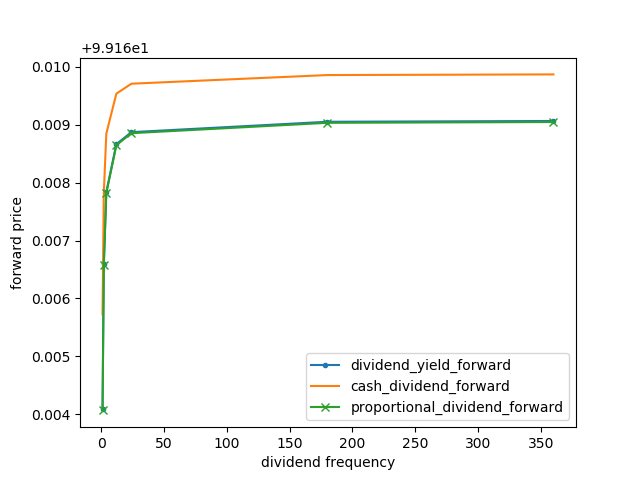
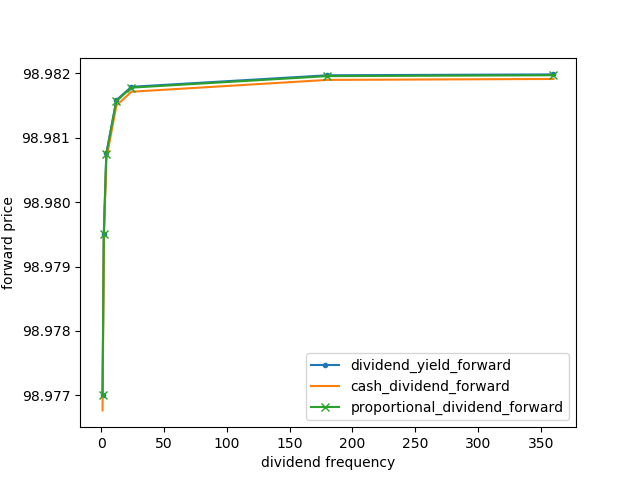
+ vol test

diff --git a/PricingModel.py b/PricingModel.py
@@ -39,7 +39,8 @@ class MonteCarlo(PricingModel):
     def generate_discrete_data(self):
         self.path = np.ones((1, self.n_path)) * self.S0  # row 0: S0
         self.ST = np.ones(self.n_path) * self.S0  # S0
-        self.Wt = np.random.normalmtrand.RandomState(seed=42).randn(self.n_path, self.T - self.t)
+        #self.Wt = np.random.normalmtrand.RandomState(seed=42).randn(self.n_path, self.T - self.t)
+        self.Wt = np.random.normal(0, 1/math.sqrt(1/360), self.n_path*(self.T - self.t))
 
     def generate_ST(self, S0, vol, r, T, t, d, d_model1, d_model2, q, delta, frequency):
         # r is daily interest rate
@@ -71,8 +72,11 @@ class MonteCarlo(PricingModel):
                 dividend_FV = dividend_FV * d_model2 * math.exp(r * (T - t))
 
         for i in range(0, T - t):
-            dS = ST * (np.ones(self.n_path) * (r - q1[i]) + vol * self.Wt[i:i + self.n_path]) - np.ones(self.n_path) * d1[
-                i]  # daily increment
+            # i: time
+            '''dS = ST * (np.ones(self.n_path) * (r - q1[i]) + vol * self.Wt[i:i + self.n_path]) - np.ones(self.n_path) * d1[
+                i]  # daily increment'''
+            dS = ST * (np.ones(self.n_path) * (r - q1[i]) + vol * self.Wt[i*self.n_path:(i+1)*self.n_path]) - np.ones(self.n_path) * \
+                 d1[i]  # daily increment
             ST = (ST + dS) * (1 - delta1[i])  # discrete proportional dividend is paid at market close
             if min(ST) < 0:
                 print("cash divident: S", i, "<0")  # it the stock price is negative after paying dividend

diff --git a/main.py b/main.py
@@ -66,6 +66,7 @@ Price(forward, market, model)
 # compare ATM European call in 3 dividends
 # TODO: update this part
 frequency = [1,2,4,12,24,180,360]     # frequency n times per year
+#frequency = [1]
 dividend_yield_freq=[]
 cash_dividend_freq=[]
 proportional_dividend_freq=[]
@@ -181,9 +182,8 @@ plt.ylabel('forward price')
 plt.savefig("./results/frequency-forward.png")
 plt.show()
 
-
-plt.plot(frequency, cash_dividend_freq, label='cash_dividend')
 plt.plot(frequency, cash_dividend_m1_freq, marker='.', label='cash_dividend_m1')
+plt.plot(frequency, cash_dividend_freq, label='cash_dividend')
 plt.plot(frequency, cash_dividend_m2_freq, marker='x', label='cash_dividend_m2')
 plt.legend()
 plt.xlabel('dividend frequency')
@@ -191,8 +191,8 @@ plt.ylabel('European call price (cash dividend)')
 plt.savefig("./results/frequency-price_cash.png")
 plt.show()
 
-plt.plot(frequency, cash_dividend_forward, label='cash_dividend_forward')
 plt.plot(frequency, cash_dividend_m1_forward, marker='.', label='cash_dividend_m1_forward')
+plt.plot(frequency, cash_dividend_forward, label='cash_dividend_forward')
 plt.plot(frequency, cash_dividend_m2_forward, marker='x', label='cash_dividend_m2_forward')
 plt.legend()
 plt.xlabel('dividend frequency')

diff --git a/MarketData.py b/MarketData.py
@@ -63,12 +63,8 @@ class MarketData:
                                                                    DividendType.DiscreteCash_m2):
             # same conversion for all cash dividend
             # TODO: remove hard code
-            '''dt = 360//frequency
-            dt = dt/360
-            return self.spot * (1 - pow(1 - div_amount / frequency, frequency)) * math.exp(self.r * dt) / (
-                1 - math.exp(-self.r * 1)) * (1 - math.exp(-self.r * dt))'''
-            return self.spot * (1 - pow(1 - div_amount / frequency, frequency)) * (1
-                - math.exp(-self.r * 1 / frequency)) / (1 - math.exp(-self.r * 1)) / math.exp(-self.r * 1/frequency)
+            return self.spot * (1 - pow(1 - div_amount / frequency, frequency)) * (1- math.exp(-self.r * 1 / frequency)) / (
+                        1 - math.exp(-self.r * 1)) / math.exp(-self.r * 1 / frequency)
 
         elif fr_type == DividendType.DiscreteProp and to_type == DividendType.ContinuousYield:
             # TODO: remove hard code
